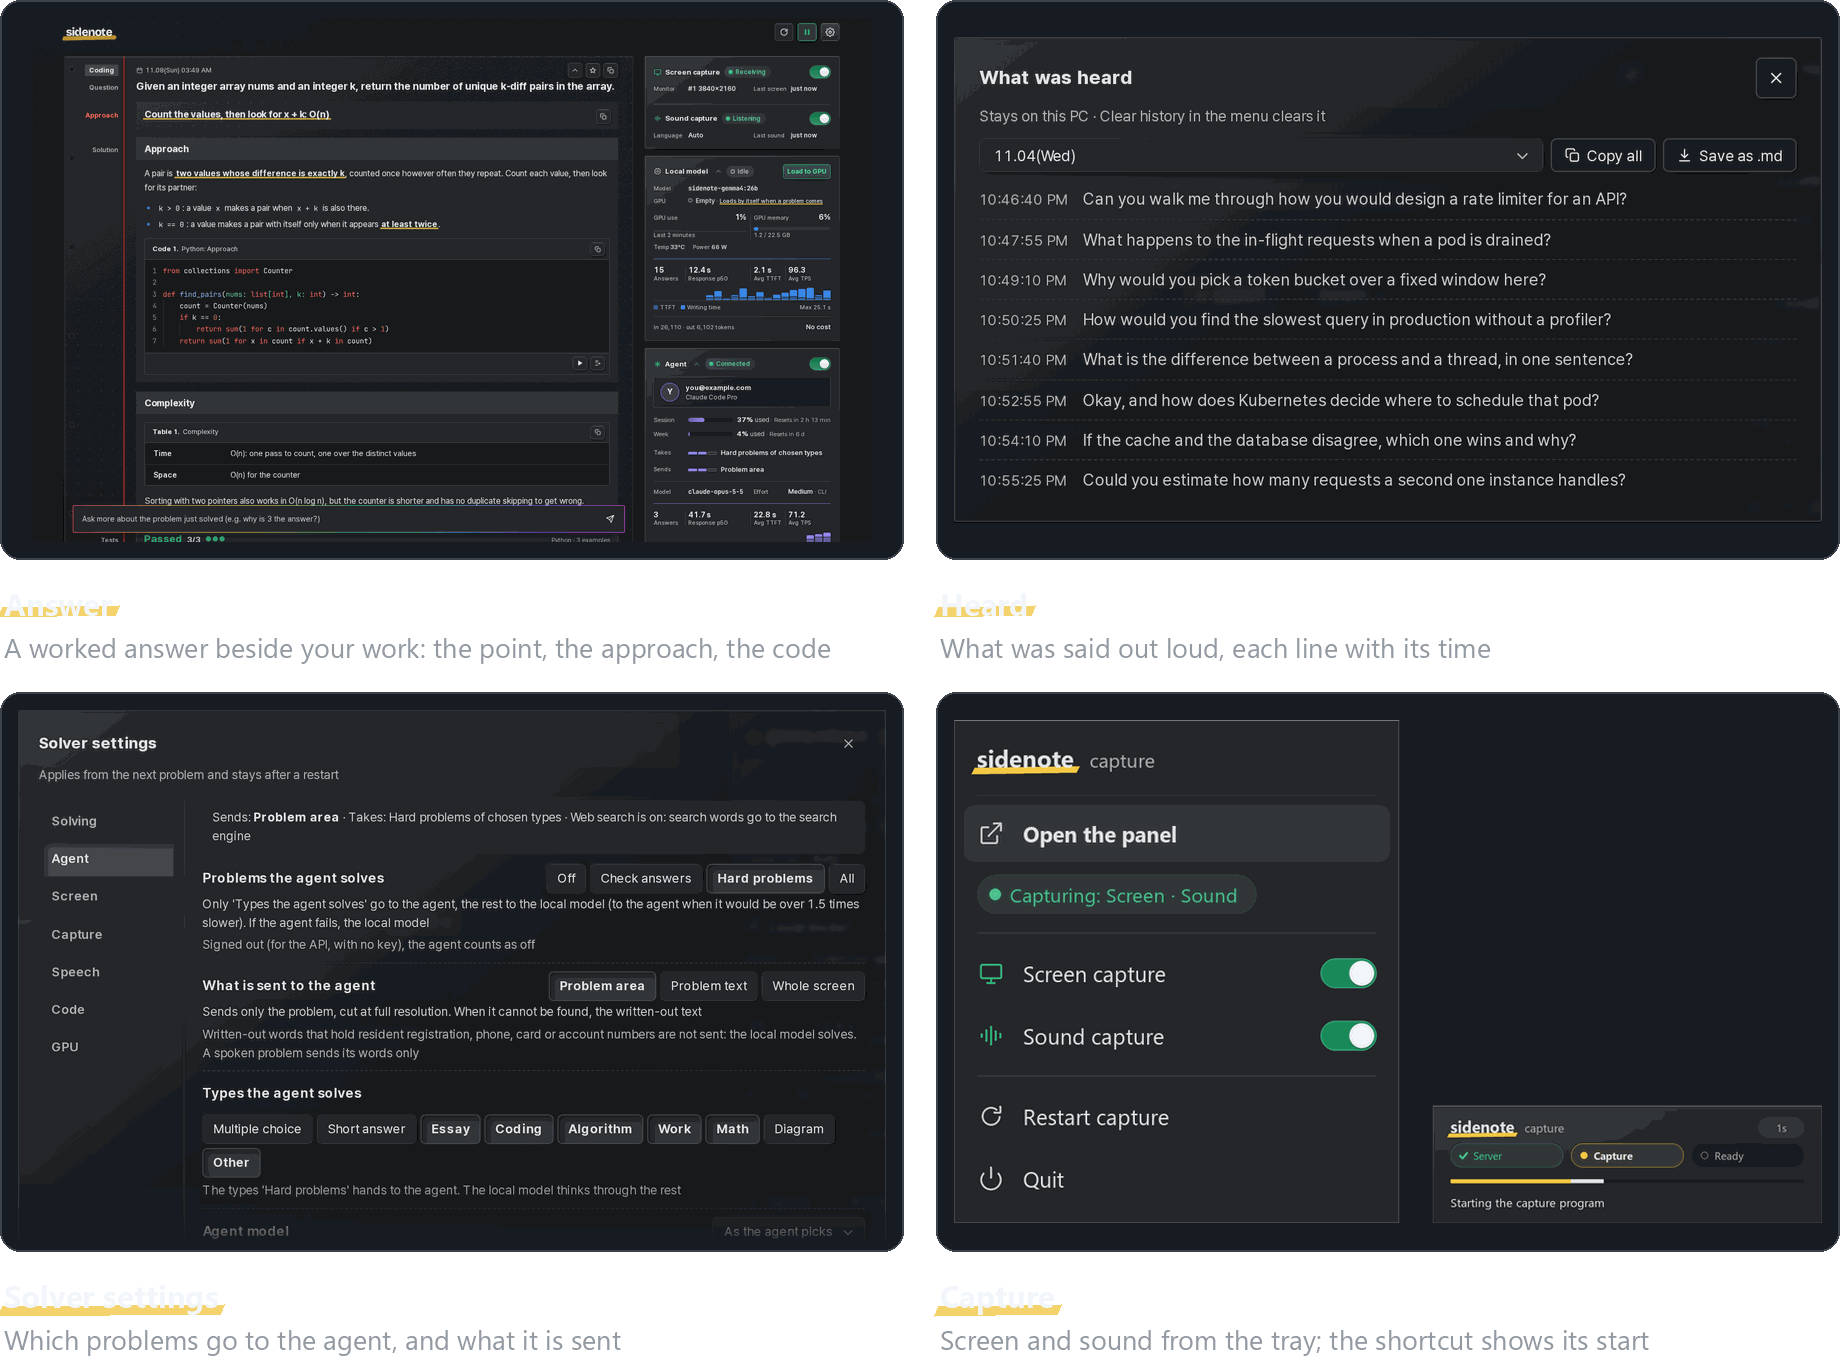
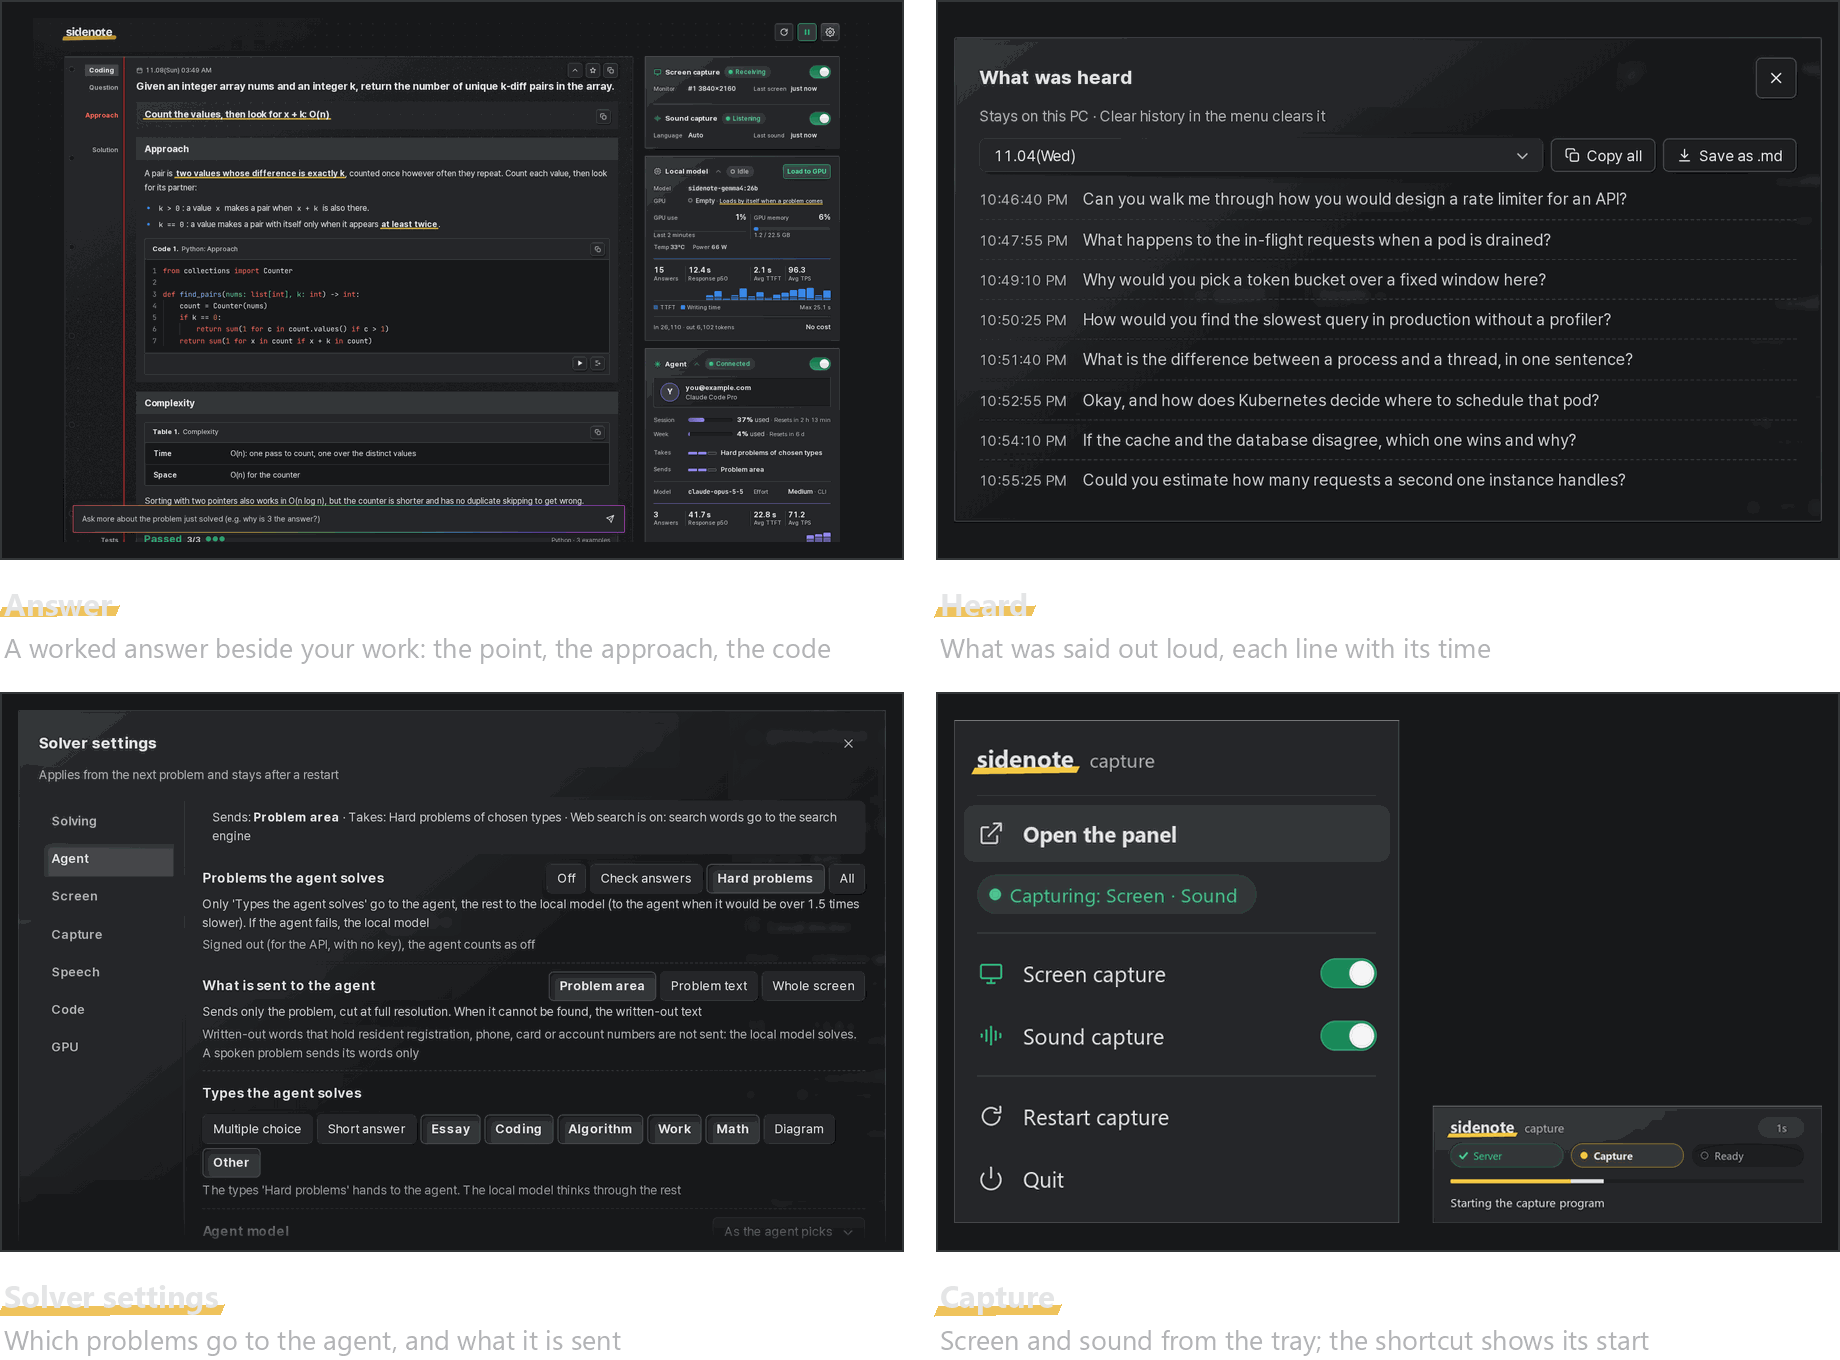
The README's first picture in the panel's corners and greys
The four views stood in frames with rounded corners, filled and lined
in GitHub's blue-greys, around shots of a panel whose surfaces are
square and neutral. The frames are square now, and their fill, lines,
words and highlighter are the panel's own (--paper, --rule, --ink,
--graphite, --brand-hl), in the light picture and the dark.

diff --git a/CHANGELOG.md b/CHANGELOG.md
@@ -6,6 +6,11 @@ that only fixes raises the patch number. Each release's section here is its rele
 
 ## [Unreleased]
 
+### Changed
+
+- The README's first picture has square corners and the panel's own greys, as the panel has, where its frames were
+  rounded and in GitHub's blue-greys.
+
 ## [0.4.2] - 2026-11-08
 
 ### Fixed
